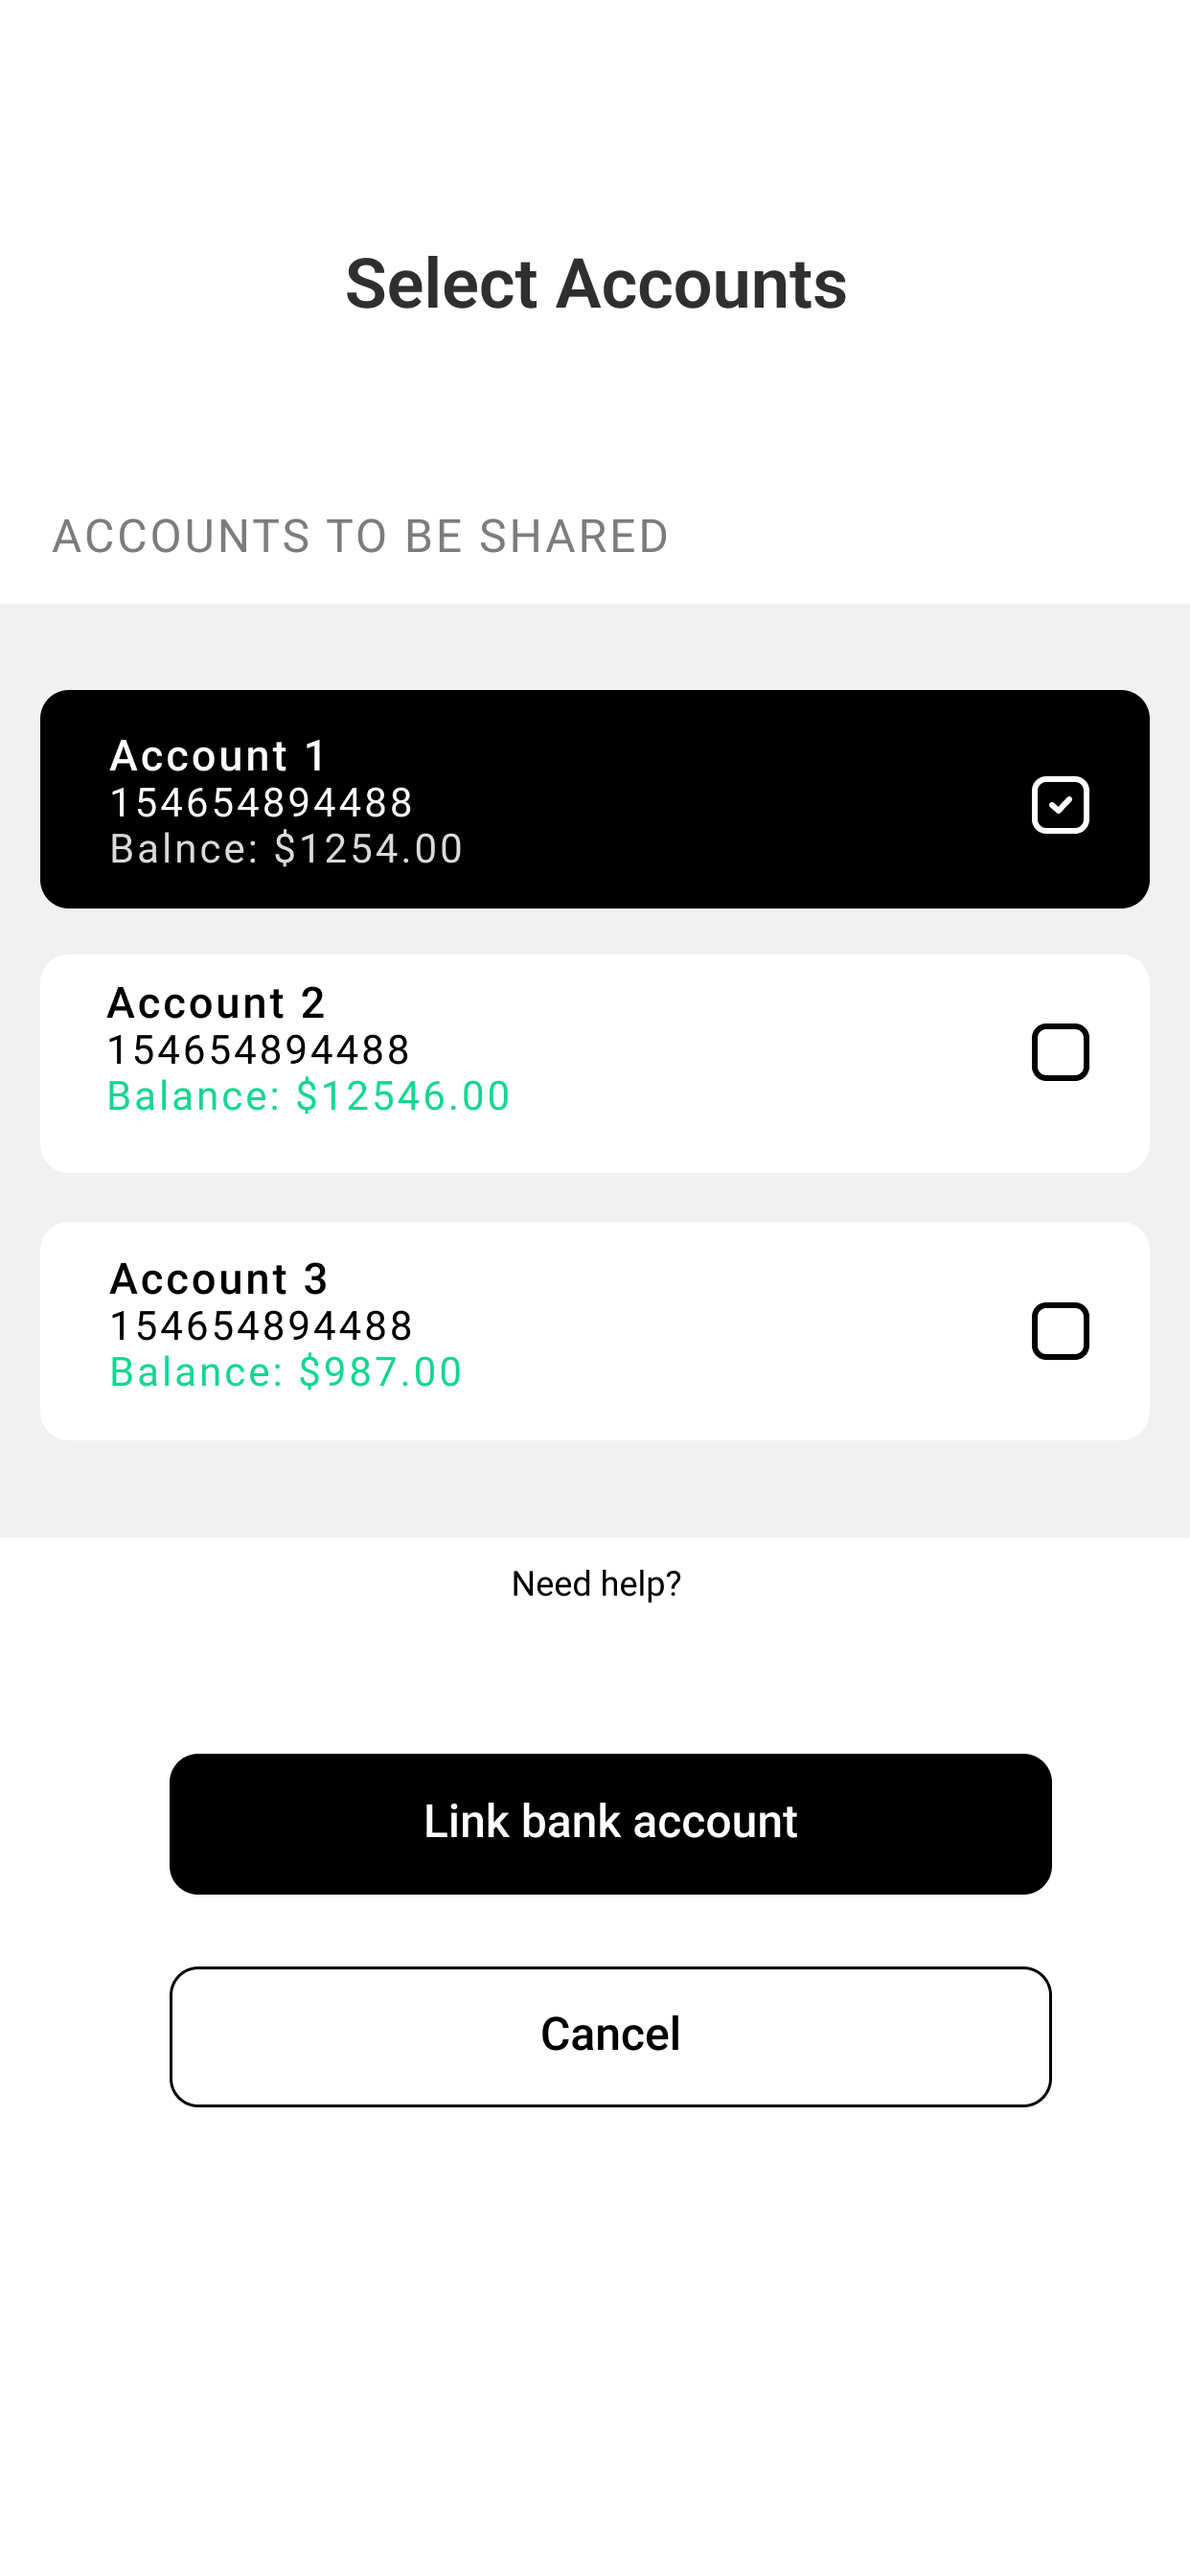
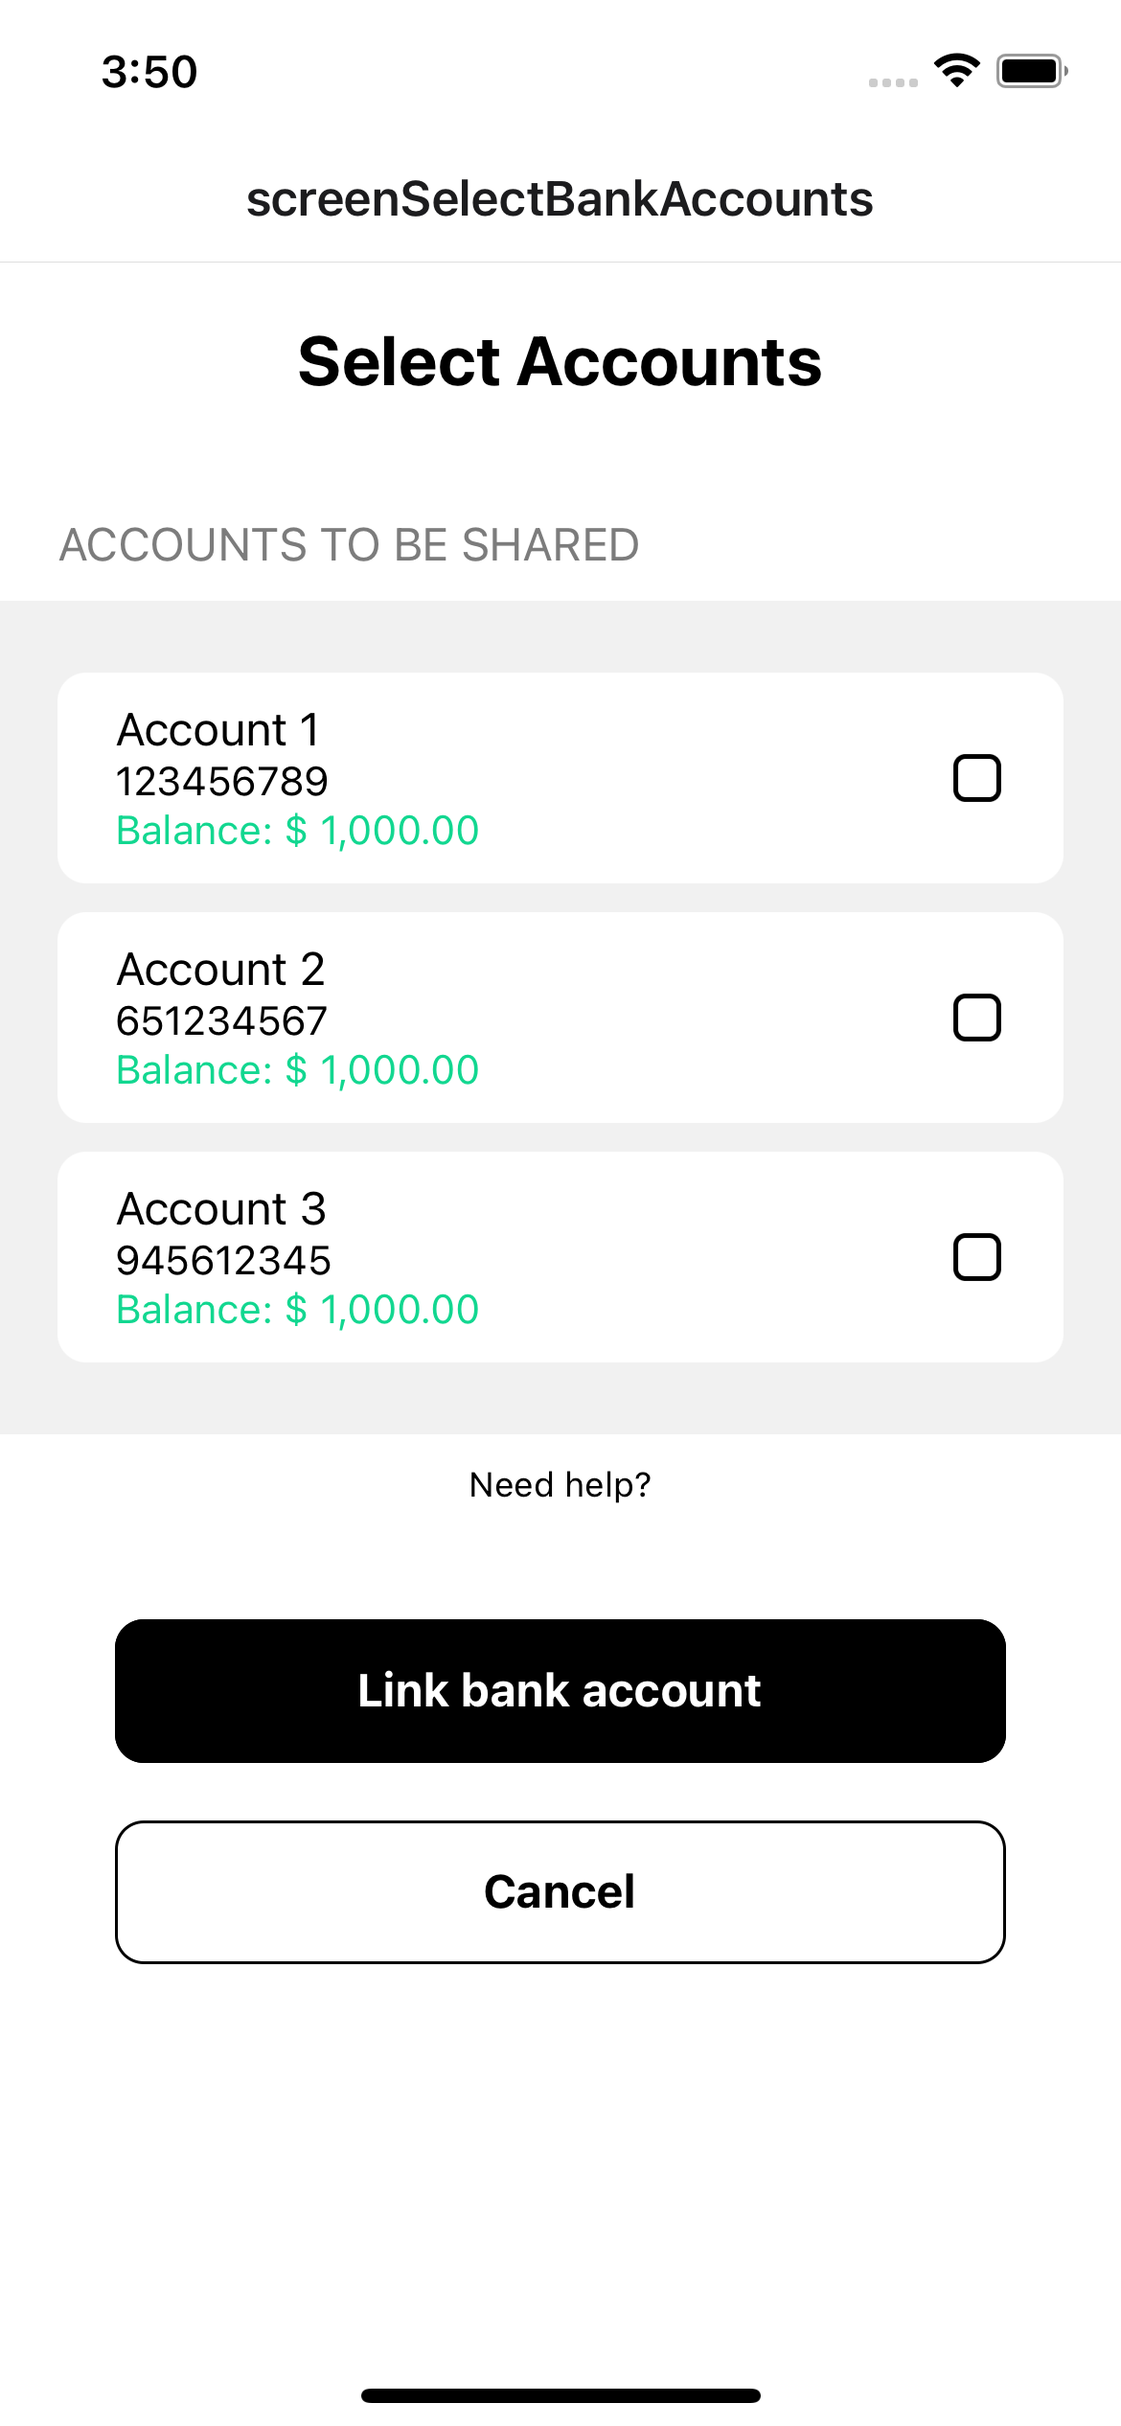
select bank accounts screen added

diff --git a/screens/screen-select-bank-accounts/index.js b/screens/screen-select-bank-accounts/index.js
@@ -1,14 +1,93 @@
-import React from "react";
-import {
-  Text,
-  View,
-  StyleSheet
-} from "react-native";
+import React, { useState, useEffect } from "react";
+import { Text, View, StyleSheet, Pressable, Image } from "react-native";
 
 const SelectBankAccounts = () => {
+  const [accounts, setAccounts] = useState([]);
+  const [selectedAccounts, setSelectedAccounts] = useState([]);
+  useEffect(() => {
+    setAccounts([
+      {
+        name: "Account 1",
+        accountNumber: "123456789",
+        balance: 1000
+      },
+      {
+        name: "Account 2",
+        accountNumber: "651234567",
+        balance: 1000
+      },
+      {
+        name: "Account 3",
+        accountNumber: "945612345",
+        balance: 1000
+      }
+    ]);
+  }, []);
+  const handleAccountSelection = account => {
+    let newSelectedAccounts = [...selectedAccounts];
+    if (newSelectedAccounts.includes(account)) {
+      newSelectedAccounts = newSelectedAccounts.filter(
+        acc => acc.accountNumber !== account.accountNumber
+      );
+    } else {
+      newSelectedAccounts.push(account);
+    }
+    setSelectedAccounts(newSelectedAccounts);
+  };
   return (
     <View style={styles.container}>
-      <Text style={styles.heading}>Select Bank Accounts</Text>
+      <Text style={styles.heading}>Select Accounts</Text>
+      <Text style={styles.subHeading}>Accounts to be shared</Text>
+      <View style={styles.accountsContainer}>
+        {accounts.map((account, index) => (
+          <Pressable
+            key={index}
+            style={[
+              styles.accountItem,
+              selectedAccounts.includes(account) && styles.selectedAccount
+            ]}
+            onPress={() => handleAccountSelection(account)}>
+            <View style={styles.accountDetails}>
+              <Text
+                style={[
+                  styles.accountName,
+                  selectedAccounts.includes(account) && styles.whiteText
+                ]}>
+                {account.name}
+              </Text>
+              <Text
+                style={[
+                  styles.accountNumber,
+                  selectedAccounts.includes(account) && styles.whiteText
+                ]}>
+                {account.accountNumber}
+              </Text>
+              <Text
+                style={[
+                  styles.accountBalance,
+                  selectedAccounts.includes(account) && styles.whiteText
+                ]}>
+                Balance: {format(account.balance, "USD", 2)}
+              </Text>
+            </View>
+            <Checkbox
+              value={selectedAccounts.includes(account)}
+              setValue={() => {}}
+              white={selectedAccounts.includes(account)}
+            />
+          </Pressable>
+        ))}
+      </View>
+      <Text style={styles.subText}>Need help?</Text>
+      <Button buttonText="Link bank account" style={styles.button} hideShadow />
+      <Button
+        buttonText="Cancel"
+        backgroundColor="#fff"
+        textColor="#000"
+        borderColor="#000"
+        style={styles.button}
+        hideShadow
+      />
     </View>
   );
 };
@@ -18,8 +97,177 @@ const styles = StyleSheet.create({
     backgroundColor: "#fff"
   },
   heading: {
-    fontSize: 20
+    fontSize: 24,
+    fontWeight: "bold",
+    textAlign: "center",
+    marginVertical: 20,
+    marginBottom: 40
+  },
+  subHeading: {
+    fontSize: 16,
+    color: "#7C7C7C",
+    textTransform: "uppercase",
+    marginLeft: 20,
+    marginBottom: 10
+  },
+  accountsContainer: {
+    padding: 20,
+    backgroundColor: "#F1F1F1"
+  },
+  accountItem: {
+    flexDirection: "row",
+    justifyContent: "space-between",
+    alignItems: "center",
+    paddingVertical: 10,
+    paddingHorizontal: 20,
+    backgroundColor: "#fff",
+    borderRadius: 10,
+    marginVertical: 5
+  },
+  selectedAccount: {
+    backgroundColor: "#000"
+  },
+  accountDetails: {
+    flex: 1
+  },
+  accountName: {
+    fontSize: 16,
+    color: "#000"
+  },
+  accountNumber: {
+    fontSize: 14,
+    color: "#000"
+  },
+  accountBalance: {
+    fontSize: 14,
+    color: "#12D790"
+  },
+  whiteText: {
+    color: "#fff"
+  },
+  subText: {
+    fontSize: 12,
+    color: "#000",
+    textAlign: "center",
+    marginTop: 10,
+    marginBottom: 20
+  },
+  button: {
+    marginHorizontal: 40,
+    marginTop: 20
   }
 });
 
 export default SelectBankAccounts;
+
+const Checkbox = props => {
+  return (
+    <Pressable
+      onPress={() => {
+        props.setValue(!props.value);
+      }}
+      style={[checkboxStyles.container, props.style]}>
+      <Image
+        source={
+          props.value
+            ? require("./assets/checkboxIconActive.png")
+            : require("./assets/checkboxIcon.png")
+        }
+        style={[checkboxStyles.checkbox, props.white && checkboxStyles.white]}
+      />
+    </Pressable>
+  );
+};
+
+const checkboxStyles = StyleSheet.create({
+  container: {
+    height: 20,
+    width: 20
+  },
+  checkbox: {
+    height: "100%",
+    width: "100%"
+  },
+  white: {
+    tintColor: "#fff"
+  }
+});
+
+const Button = params => {
+  const backgroundColor = params.backgroundColor || "#000";
+  const textColor = params.textColor || "#fff";
+  const btnStyle = {
+    backgroundColor: backgroundColor,
+    borderColor: params.borderColor || backgroundColor,
+    borderWidth: 1
+  };
+  const btnText = {
+    color: textColor
+  };
+  return (
+    <View style={[buttonStyles.btnContainer, params.style]}>
+      <View style={!params.hideShadow ? buttonStyles.shadowContainer : null}>
+        <Pressable
+          style={[buttonStyles.btn, btnStyle]}
+          onPress={params.onPress}>
+          <Text style={[buttonStyles.btnText, btnText]}>
+            {params.buttonText}
+          </Text>
+          <View style={styles.childrenContainer}>{params.children}</View>
+        </Pressable>
+      </View>
+    </View>
+  );
+};
+
+const buttonStyles = StyleSheet.create({
+  btnContainer: {
+    justifyContent: "center"
+  },
+  shadowContainer: {
+    shadowColor: "rgba(0, 0, 0, 0.5)",
+    shadowOffset: {
+      width: 0,
+      height: 5
+    },
+    shadowOpacity: 0.5,
+    shadowRadius: 10,
+    elevation: 10,
+    backgroundColor: "#fff",
+    borderRadius: 10
+  },
+  btn: {
+    height: 50,
+    padding: 10,
+    paddingHorizontal: 25,
+    borderRadius: 10,
+    justifyContent: "center",
+    alignItems: "center",
+
+    flexDirection: "row"
+  },
+  btnText: {
+    color: "#fff",
+    fontSize: 16,
+    fontWeight: "bold"
+  },
+  childrenContainer: {
+    justifyContent: "center",
+    alignItems: "center"
+  }
+});
+
+const format = (value, currency, precesion) => {
+  const parts = value && value.toFixed(precesion).toString().split(".");
+  if (parts) {
+    parts[0] = parts[0].replace(/\B(?=(\d{3})+(?!\d))/g, ",");
+    switch (currency) {
+      case "USD":
+        return "$ " + parts.join(".");
+      case "ETH":
+        return parts.join(".") + " ETH";
+      default:
+        return parts.join(".");
+    }
+  }
+};

diff --git a/modules/index.js b/modules/index.js
@@ -2,7 +2,7 @@ import mods from "./*/index.js";
 import { getModules } from "./modules.js";
 
 export const modules = getModules(mods);
-export const initialRoute = "screenSearchBank";
+export const initialRoute = "screenSelectBankAccounts";
 // export const initialRoute = modules[0].value.title;
 export const slices = modules
   .filter(mod => mod.value.slice)
